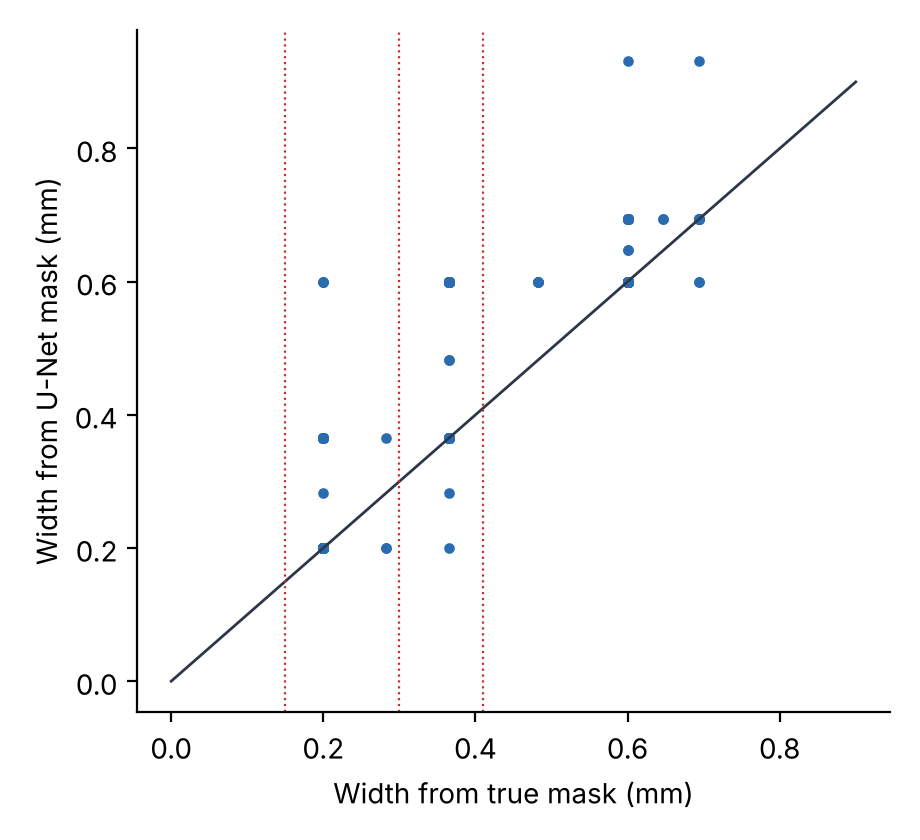
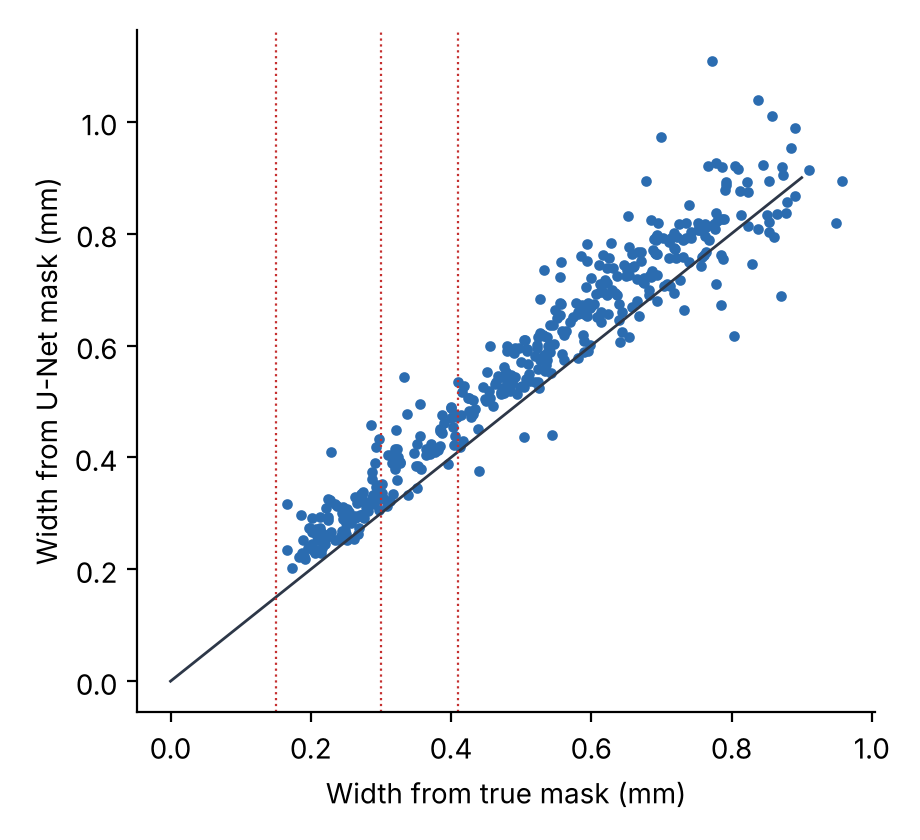
Ch12: crack width by area/centre-line length, checked against analytic width

diff --git a/code/ch12.py b/code/ch12.py
@@ -42,11 +42,30 @@ inter=(P&T).sum((1,2)); uni=(P|T).sum((1,2)); iou=inter[has]/uni[has]
 prec=(P&T).sum()/P.sum(); rec=(P&T).sum()/T.sum(); f1=2*prec*rec/(prec+rec)
 print(f"pixel precision={prec:.3f} recall={rec:.3f} F1={f1:.3f}; mean IoU (crack images)={iou.mean():.3f}")
 fp_img=P[~has].sum((1,2)); print("false-positive pixels per crack-free image (mean):",round(fp_img.mean(),2))
-def width_mm(mask):
+def sk_len(sk):
+    s=sk.astype(int); o=(s[1:,:]&s[:-1,:]).sum()+(s[:,1:]&s[:,:-1]).sum(); dg=(s[1:,1:]&s[:-1,:-1]).sum()+(s[1:,:-1]&s[:-1,1:]).sum()
+    return o+np.sqrt(2)*dg+1
+def width_mm(mask, how="area"):
+    # mean width = crack area / centre-line length; the older 2d-1 rule only returns odd pixel counts
     if mask.sum()<5: return np.nan
-    sk=skeletonize(mask); d=distance_transform_edt(mask); return np.median(2*d[sk]-1)*PX
+    sk=skeletonize(mask)
+    if how=="area": return mask.sum()/sk_len(sk)*PX
+    d=distance_transform_edt(mask); return np.median(2*d[sk]-1)*PX
+# estimator check on straight strips of known width (independent of the network)
+rs=np.random.default_rng(0); yy,xx=np.mgrid[:96,:96]
+for w0 in [1,2,3,4]:
+    ea=[]; eo=[]
+    for _ in range(200):
+        a=rs.uniform(0,np.pi); c=rs.uniform(40,56,2); mk=np.abs((yy-c[0])*np.cos(a)-(xx-c[1])*np.sin(a))<=w0/2
+        mk[:8]=mk[-8:]=0; mk[:,:8]=mk[:,-8:]=0; ea.append(width_mm(mk)/PX-w0); eo.append(width_mm(mk,"2d-1")/PX-w0)
+    print(f"strip width {w0} px: bias area/length={np.mean(ea):+.2f} px (sd {np.std(ea):.2f}); bias 2d-1={np.mean(eo):+.2f} px (sd {np.std(eo):.2f})")
 wt=np.array([width_mm(t) for t in T[has]]); wp=np.array([width_mm(p) for p in P[has]]); ok=~np.isnan(wt)&~np.isnan(wp)
-err=np.abs(wp[ok]-wt[ok]); print(f"width: MAE={err.mean():.3f} mm, within ±0.1 mm={np.mean(err<=0.1)*100:.0f}%")
+err=np.abs(wp[ok]-wt[ok]); print(f"width (pred mask vs true mask): MAE={err.mean():.3f} mm, within +-0.1 mm={np.mean(err<=0.1)*100:.0f}%")
+# non-circular check: the generator's mask is a Gaussian ridge cut at 0.5, so its analytic width is 2*sqrt(2 ln 2)*(w/2)
+wa=Wte[has]*np.sqrt(2*np.log(2))*PX
+for nm,wx in [("true mask",wt),("predicted mask",wp)]:
+    e=wx[ok]-wa[ok]; print(f"{nm} vs analytic width: bias={e.mean():+.3f} mm, sd={e.std():.3f} mm, MAE={np.abs(e).mean():.3f} mm, within +-0.1 mm={np.mean(np.abs(e)<=0.1)*100:.0f}%")
+wo=np.array([width_mm(p,'2d-1') for p in P[has]]); e=wo[ok]-wa[ok]; print(f"old 2d-1 rule on predicted mask vs analytic: bias={e.mean():+.3f} mm, MAE={np.abs(e).mean():.3f} mm")
 gw=Wte[has]
 bins=[(0.8,1.5),(1.5,2.5),(2.5,3.5)]
 for lo_,hi_ in bins:
